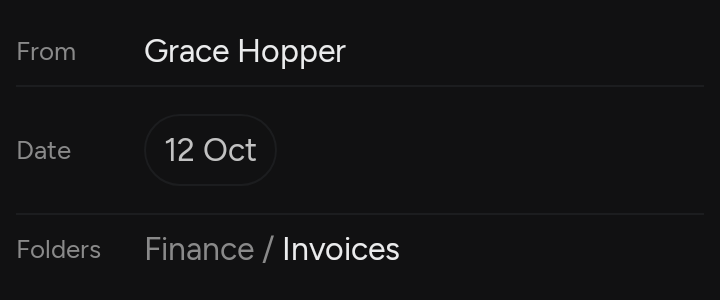
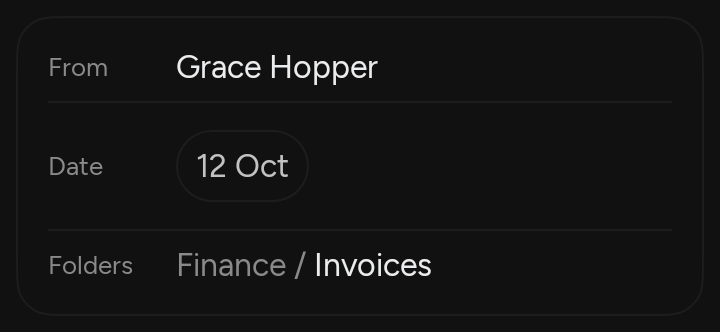
fix(panels): stop clipping the last pill in the Read header (#146)
* fix(panels): keep the last chip of a filled rail in view

- Subtract the rail's inset at both ends from fillRail's width, so the chips no longer overflow the rail.

- This stops the edge fade from clipping the Read header's Zen pill and the folder account picker.

* test(hooks): drop stale attribution check from the hook test

- Commit a plain valid message, since the hook no longer strips attribution lines (#135).

(cherry picked from commit 417699fd9d6b4cd87c641f928bd677d9792097f1)

* test(read): re-record the details table on its raised card

- Update the baseline that #132 left stale when it put sender details on a card.

(cherry picked from commit 7d2e17ec4e6080ea2a487b9e7950b4720d41744c)

diff --git a/designsystem/src/commonMain/kotlin/com/otus/designsystem/shared/panels/components/ContextPanelScope.kt b/designsystem/src/commonMain/kotlin/com/otus/designsystem/shared/panels/components/ContextPanelScope.kt
@@ -61,11 +61,11 @@ public class ContextPanelScope internal constructor(
     /**
      * Stretches a chip, such as a
      * [PickerChip][com.otus.designsystem.shared.selection.components.PickerChip], across the rail's
-     * visible width.
+     * visible width, inside the inset [PanelChipRail] keeps at both ends.
      */
     public fun Modifier.fillRail(): Modifier =
         layout { measurable, constraints ->
-            val width = geometry.railWidth
+            val width = geometry.railWidth - PanelTokens.panelInset.roundToPx() * 2
             val fitted = if (width > 0) constraints.copy(minWidth = width, maxWidth = width) else constraints
             val placeable = measurable.measure(fitted)
             layout(placeable.width, placeable.height) { placeable.place(0, 0) }

diff --git a/tools/tests/test_commit_message.py b/tools/tests/test_commit_message.py
@@ -143,8 +143,7 @@ class GitHookTests(unittest.TestCase):
                 self.assertNotEqual(rejected.returncode, 0)
                 self.assertIn("Commit message rejected", rejected.stderr)
                 self.assertNotEqual(git("rev-parse", "--verify", "HEAD", check=False).returncode, 0)
-            attributed = VALID + "\nCo-Authored-By: Claude <noreply@anthropic.com>\n"
-            git("commit", "--allow-empty", "-m", attributed)
+            git("commit", "--allow-empty", "-m", VALID)
             self.assertEqual(git("log", "-1", "--format=%B").stdout.strip(), VALID.strip())
             git("config", "core.commentChar", ";")
             message_file = repo / "message.txt"

diff --git a/CHANGELOG.md b/CHANGELOG.md
@@ -2,6 +2,8 @@
 
 ## Unreleased
 
+- `fillRail()` leaves out the rail's inset at both ends, so the last chip in a filled rail is no
+  longer clipped by the edge fade.
 - `IconPill` takes a `fill`, `bgRegular` by default, so it can match the pills beside it.
   `DetailsTable` now sits on a raised `darkSurface` card with the images banner's radius and inset.
 - Add a System theme: `SystemTheme` holds the device's colors, `ThemeChoice.withSystem()` selects
